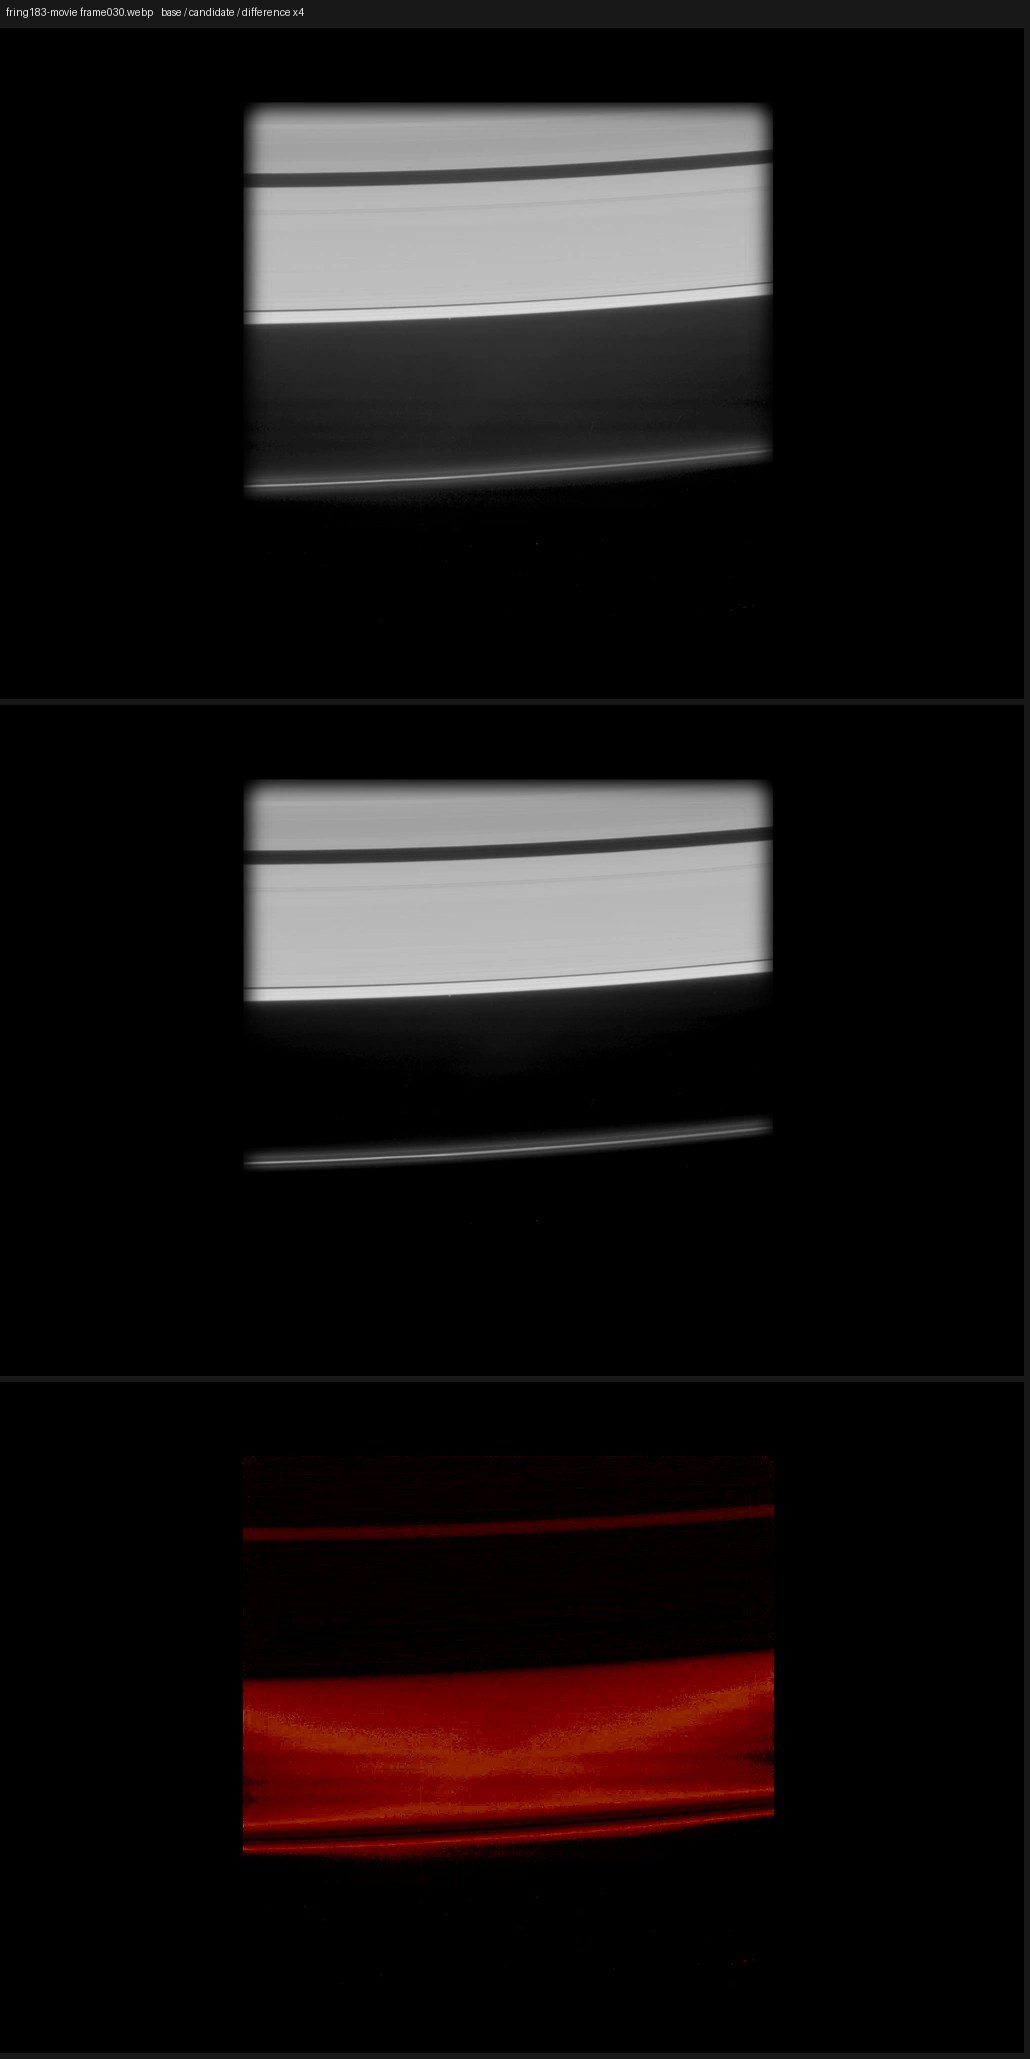
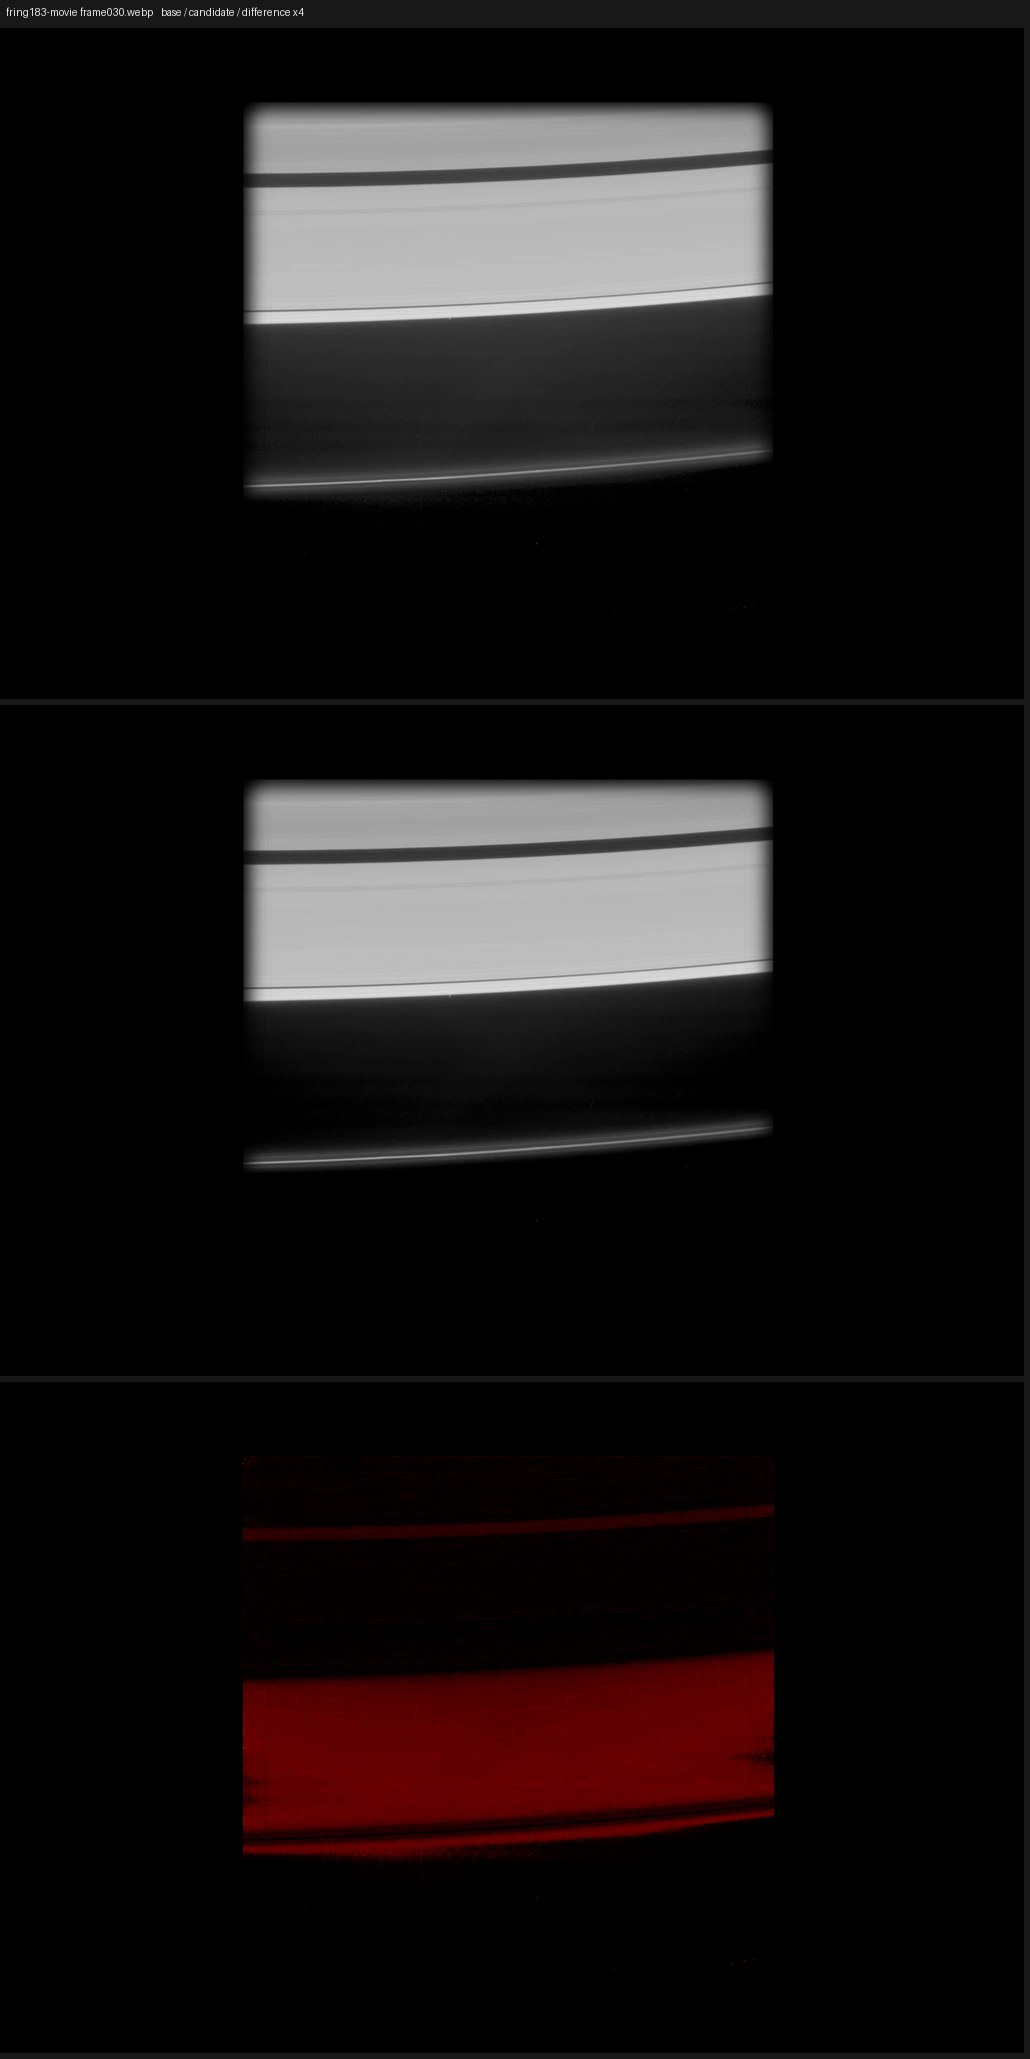
Evidence: bench main 7d4edf16 vs 4ba71cce (softer Full movies) with notes, all 38 changed sheets; Fable: ship

Changed region(s): [[0.2175, 0.8082, 0.7767, 0.9014]]

diff --git a/evidence/gentler_blacks/bench-report-7d4edf16-vs-4ba71cce.md b/evidence/gentler_blacks/bench-report-7d4edf16-vs-4ba71cce.md
@@ -1,10 +1,10 @@
-# Image benchmark: b51d908fb249 against 7d4edf1635b4
+# Image benchmark: 4ba71ccea742 against 7d4edf1635b4
 
 **NEEDS EYES**. 73 items: 35 identical, 38 changed (31 outside the target), 0 not built.
 
 - target items with a measure worse (look at them): ringmovie04-movie, kiviuq-still, titanwac17-haze, saturn07-fullblack-movie, saturn08w-fullblack-movie, saturn13-fullblack-movie, saturn08-fullblack-movie
 
-Built in 46 min (base) and 50 min (candidate). Targets: kiviuq-still, ringmovie04-movie, saturn07-fullblack-movie, saturn08-fullblack-movie, saturn08w-fullblack-movie, saturn13-fullblack-movie, titanwac17-haze.
+Built in 46 min (base) and 45 min (candidate). Targets: kiviuq-still, ringmovie04-movie, saturn07-fullblack-movie, saturn08-fullblack-movie, saturn08w-fullblack-movie, saturn13-fullblack-movie, titanwac17-haze.
 
 | item | group | status | pictures changed | moved >8 levels (worst) | largest change (levels) | worse by measure | note |
 |---|---|---|---|---|---|---|---|
@@ -16,13 +16,13 @@ Built in 46 min (base) and 50 min (candidate). Targets: kiviuq-still, ringmovie0
 | jupiter-atmos-mosaic | hard | identical | 0/1 | 0.00% |  |  |  |
 | enceladus-spol-mosaic | hard | identical | 0/2 | 0.00% |  |  |  |
 | satellorb-centre | hard | changed | 1/1 | 13.51% | 20 |  | Stills' black over the sky's grain: a smooth scattered-light halo shows round overexposed Saturn, cut where the frame ends (Fable: mixed). |
-| daphnis09-movie | hard | changed | 49/70 | 1.40% | 255 |  | Hairline differences along ring edges and the frame border only; picture looks identical (Fable: same). |
+| daphnis09-movie | hard | changed | 46/70 | 1.40% | 255 |  | Hairline differences along ring edges and the frame border only; picture looks identical (Fable: same). |
 | ringclose124-movie | hard | identical | 0/10 | 0.00% |  |  |  |
 | gring-still | hard | changed | 1/1 | 0.11% | 15 | still.webp: lit area's centre moved 14 px; still.webp: lit share 42.8% -> 37.4% | Marginally darker sky; G ring band and column banding unchanged (Fable: same). Measures move with the black level. |
-| plume279-movie | hard | changed | 167/288 | 52.40% | 133 | frame000.webp: 0.50% of the base's light now black; frame000.webp: lit area's centre moved 15 px; frame010.webp: lit share 17.5% -> 7.7%; frame172.webp: clipped 0.02% -> 0.25% | Full keeps Processed's black sky: gray grainy footprint and column streaks gone, plume kept but its faint outer reach shorter (Fable: better). |
+| plume279-movie | hard | changed | 167/288 | 47.38% | 132 | frame000.webp: 0.50% of the base's light now black; frame000.webp: lit area's centre moved 15 px; frame010.webp: lit share 17.5% -> 9.7% | Full keeps Processed's black sky: gray grainy footprint and column streaks gone, plume kept but its faint outer reach shorter (Fable: better). |
 | plume-bloom-still | hard | changed | 1/1 | 8.54% | 19 | still.webp: detail 0.226 -> 0.286 (+27%) | Grain-based black: wider smooth glow round Enceladus and the plume, sky black (Fable: better). Detail/lit-share measures move with the glow. |
 | approach-movie | hard | changed | 96/96 | 0.01% | 12 |  | No visible change (Fable: same). |
-| ringmovie04-movie | target | changed | 44/44 | 83.50% | 232 | frame000.webp: 55.87% of the base's light now black; frame000.webp: detail 0.1032 -> 0.1578 (+53%); frame000.webp: lit area's centre moved 58 px; frame000.webp: lit share 60.7% -> 23.8% | Target. pointing_jitter 12 -> 15 was already failing on main: the lit-area centroid shifts as faint ring glow shows; black levels move no pixels. |
+| ringmovie04-movie | target | changed | 44/44 | 83.42% | 255 | frame000.webp: 25.95% of the base's light now black; frame000.webp: detail 0.1032 -> 0.1496 (+45%); frame000.webp: lit area's centre moved 34 px; frame000.webp: lit share 60.7% -> 38.4% | Target. pointing_jitter 12 -> 15 was already failing on main: the lit-area centroid shifts as faint ring glow shows; black levels move no pixels. |
 | telesto-composite | hard | changed | 1/1 | 0.26% | 14 |  | Slightly wider soft halo round the moon (Fable: same). |
 | moon99-composite | plain | changed | 1/1 | 0.00% | 9 |  | Footprint lifted about 0.5 level, invisible unless brightened (Fable: mixed). |
 | venus99-still | plain | identical | 0/1 | 0.00% |  |  |  |
@@ -69,32 +69,32 @@ Built in 46 min (base) and 50 min (candidate). Targets: kiviuq-still, ringmovie0
 | titan08-mt1 | hard | identical | 0/1 | 0.00% |  |  |  |
 | rings08-bright | hard | identical | 0/1 | 0.00% |  |  |  |
 | mimas04-movie | hard | identical | 0/46 | 0.00% |  |  |  |
-| saturn07-fullblack-movie | target | changed | 144/144 | 49.76% | 255 | frame000.webp: 27.19% of the base's light now black; frame000.webp: detail 0.1059 -> 0.1375 (+30%); frame000.webp: lit area's centre moved 34 px; frame000.webp: lit share 65.5% -> 42.7%; frame028.webp: clipped 0.44% -> 0.71% |  |
-| saturn08w-fullblack-movie | target | changed | 14/16 | 40.19% | 138 | frame000.webp: 57.67% of the base's light now black; frame000.webp: detail 0.08 -> 0.0993 (+24%); frame000.webp: lit area's centre moved 142 px; frame000.webp: lit share 33.5% -> 12.6%; frame002.webp: clipped 3.72% -> 4.71% |  |
-| saturn13-fullblack-movie | target | changed | 61/61 | 34.52% | 211 | frame000.webp: 18.39% of the base's light now black; frame000.webp: lit area's centre moved 19 px; frame000.webp: lit share 72.3% -> 54.4% |  |
-| saturn08-fullblack-movie | target | changed | 84/84 | 69.59% | 245 | evened000.webp: 34.64% of the base's light now black; evened000.webp: detail 0.0827 -> 0.1025 (+24%); evened000.webp: lit area's centre moved 32 px; evened000.webp: lit share 57.1% -> 35.4% |  |
+| saturn07-fullblack-movie | target | changed | 144/144 | 48.80% | 255 | frame000.webp: 14.84% of the base's light now black; frame000.webp: detail 0.1059 -> 0.1313 (+24%); frame000.webp: lit area's centre moved 26 px; frame000.webp: lit share 65.5% -> 53.0% |  |
+| saturn08w-fullblack-movie | target | changed | 14/16 | 37.37% | 138 | frame000.webp: 42.09% of the base's light now black; frame000.webp: detail 0.08 -> 0.1006 (+26%); frame000.webp: lit area's centre moved 125 px; frame000.webp: lit share 33.5% -> 15.8%; frame002.webp: clipped 3.72% -> 4.10% |  |
+| saturn13-fullblack-movie | target | changed | 61/61 | 33.11% | 221 | frame000.webp: 4.90% of the base's light now black; frame000.webp: lit area's centre moved 14 px; frame000.webp: lit share 72.3% -> 63.1% |  |
+| saturn08-fullblack-movie | target | changed | 84/84 | 69.49% | 245 | evened000.webp: 21.21% of the base's light now black; evened000.webp: detail 0.0827 -> 0.0984 (+19%); evened000.webp: lit area's centre moved 28 px; evened000.webp: lit share 57.1% -> 39.9% |  |
 | pan09-banding-movie | hard | identical | 0/16 | 0.00% |  |  |  |
-| fring274-movie | hard | changed | 172/172 | 55.12% | 255 | frame000.webp: 23.24% of the base's light now black; frame000.webp: detail 0.0814 -> 0.0978 (+20%); frame000.webp: lit area's centre moved 40 px; frame000.webp: lit share 76.6% -> 53.1% | Full keeps Processed's black sky (full_black 54 -> 18): veil gone, glow under the A ring fades (Fable: better). |
+| fring274-movie | hard | changed | 172/172 | 53.62% | 252 | frame000.webp: 4.82% of the base's light now black; frame000.webp: lit area's centre moved 29 px; frame000.webp: lit share 76.6% -> 66.9%; frame001.webp: detail 0.0841 -> 0.0978 (+16%) | Full keeps Processed's black sky (full_black 54 -> 18): veil gone, glow under the A ring fades (Fable: better). |
 | npole0908-mosaicmovie | hard | identical | 0/1 | 0.00% |  |  |  |
 | encset293-movie | hard | changed | 48/48 | 0.42% | 255 | frame009.webp: clipped 28.08% -> 28.45%; frame021.webp: detail 0.0094 -> 0.0252 (+168%) | Faint smooth glow line above the limb only (Fable: same). |
 | daphnis257n1-movie | hard | identical | 0/34 | 0.00% |  |  |  |
-| fring039-movie | hard | changed | 144/144 | 49.76% | 255 | frame000.webp: 27.19% of the base's light now black; frame000.webp: detail 0.1059 -> 0.1375 (+30%); frame000.webp: lit area's centre moved 34 px; frame000.webp: lit share 65.5% -> 42.7%; frame028.webp: clipped 0.44% -> 0.71% | Full keeps Processed's black sky (full_black 49 -> 18): veil and ragged wedge gone, F ring glow fades smoothly (Fable: better). |
-| fring183-movie | hard | changed | 61/61 | 34.52% | 211 | frame000.webp: 18.39% of the base's light now black; frame000.webp: lit area's centre moved 19 px; frame000.webp: lit share 72.3% -> 54.4% | Full keeps Processed's black sky (full_black 31 -> 10): veil between A and F rings gone (Fable: better). |
-| titancloud264-movie | hard | changed | 104/104 | 1.10% | 125 | evened002.webp: clipped 3.65% -> 4.04%; evened027.webp: detail 0.046 -> 0.0529 (+15%) | Tiny contrast change at cloud edges (Fable: same). |
+| fring039-movie | hard | changed | 144/144 | 48.80% | 255 | frame000.webp: 14.84% of the base's light now black; frame000.webp: detail 0.1059 -> 0.1313 (+24%); frame000.webp: lit area's centre moved 26 px; frame000.webp: lit share 65.5% -> 53.0% | Full keeps Processed's black sky (full_black 49 -> 18): veil and ragged wedge gone, F ring glow fades smoothly (Fable: better). |
+| fring183-movie | hard | changed | 61/61 | 33.11% | 221 | frame000.webp: 4.90% of the base's light now black; frame000.webp: lit area's centre moved 14 px; frame000.webp: lit share 72.3% -> 63.1% | Full keeps Processed's black sky (full_black 31 -> 10): veil between A and F rings gone (Fable: better). |
+| titancloud264-movie | hard | changed | 104/104 | 0.91% | 125 | evened002.webp: clipped 3.65% -> 4.04%; evened018.webp: detail 0.0285 -> 0.0347 (+22%) | Tiny contrast change at cloud edges (Fable: same). |
 
 Sheets: `sheets/<item>.jpg` (base | candidate | difference x4, with 1:1 crops of the place that changed most).
 
 ## Checks
 
-2 regressions, 9 fixed, 10 known (failing on the base too), 0 errors. A known failure is a defect already on the base; it does not fail this run, and a fix should turn it into fixed.
+1 regressions, 3 fixed, 17 known (failing on the base too), 0 errors. A known failure is a defect already on the base; it does not fail this run, and a fix should turn it into fixed.
 
 | item | check | verdict | base | candidate | what |
 |---|---|---|---|---|---|
 | plume279-movie | full_black | known | 24.85 | 24.85 (limit 20.0) | black sky lost at Full: up to 25 points (40% of frame287.webp black at Processed, 15% at Full; 1 of 16 frames over 20) |
-| plume279-movie | odd_frame | known | 14.7884 | 13.5034 (limit 4.0) | worst 13.5 at frame088.webp (100 of 286 frames over 4.0) |
+| plume279-movie | odd_frame | known | 14.7884 | 14.0524 (limit 4.0) | worst 14.1 at frame074.webp (100 of 286 frames over 4.0) |
 | ringmovie04-movie | full_banding | fixed | 1.173 | 0.0 (limit 1.0) | Full sky banding up to 0.00 levels where Processed has black sky (0 of 16 frames over 1.0) |
-| ringmovie04-movie | full_black | fixed | 61.32 | 9.71 (limit 20.0) | black sky lost at Full: up to 10 points (81% of frame009.webp black at Processed, 71% at Full; 0 of 16 frames over 20) |
-| ringmovie04-movie | pointing_jitter | REGRESSION | 11.9955 | 15.0089 (limit 3.0) | frame-to-frame jump past the movie's own motion: p90 15.0 px, largest 18.9 px (37 pairs) |
+| ringmovie04-movie | full_black | known | 61.32 | 25.29 (limit 20.0) | black sky lost at Full: up to 25 points (82% of frame006.webp black at Processed, 57% at Full; 5 of 16 frames over 20) |
+| ringmovie04-movie | pointing_jitter | known | 11.9955 | 14.836 (limit 3.0) | frame-to-frame jump past the movie's own motion: p90 14.8 px, largest 23.6 px (33 pairs) |
 | saturn05-movie | channel_registration | known | 10.438 | 10.31 (limit 4.0) | colour along edges past the picture's own: p90 10.31 levels, largest 10.70 (27 colour frames) |
 | methone-movie | odd_frame | known | 4.1083 | 4.1083 (limit 4.0) | worst 4.1 at frame010.webp (1 of 1 frames over 4.0) |
 | daphnis17-movie | odd_frame | known | 118.2115 | 118.1355 (limit 4.0) | worst 118.1 at frame008.webp (2 of 9 frames over 4.0) |
@@ -102,12 +102,12 @@ Sheets: `sheets/<item>.jpg` (base | candidate | difference x4, with 1:1 crops of
 | impact293-movie | odd_frame | known | 18.0219 | 18.0219 (limit 4.0) | worst 18.0 at frame007.webp (1 of 2 frames over 4.0) |
 | mimas04-movie | channel_registration | known | 48.81 | 48.81 (limit 4.0) | colour along edges past the picture's own: p90 48.81 levels, largest 48.81 (23 colour frames) |
 | mimas04-movie | odd_frame | known | 4.3576 | 4.3576 (limit 4.0) | worst 4.4 at frame018.webp (1 of 9 frames over 4.0) |
-| saturn07-fullblack-movie | full_black | fixed | 49.49 | 18.47 (limit 20.0) | black sky lost at Full: up to 18 points (73% of frame143.webp black at Processed, 55% at Full; 0 of 16 frames over 20) |
-| saturn08w-fullblack-movie | full_black | fixed | 35.86 | 15.76 (limit 20.0) | black sky lost at Full: up to 16 points (53% of frame003.webp black at Processed, 38% at Full; 0 of 16 frames over 20) |
-| saturn13-fullblack-movie | full_black | fixed | 30.94 | 10.49 (limit 20.0) | black sky lost at Full: up to 10 points (55% of frame004.webp black at Processed, 45% at Full; 0 of 16 frames over 20) |
-| saturn08-fullblack-movie | full_black | fixed | 53.71 | 12.15 (limit 20.0) | black sky lost at Full: up to 12 points (73% of frame041.webp black at Processed, 61% at Full; 0 of 16 frames over 20) |
+| saturn07-fullblack-movie | full_black | known | 49.49 | 30.05 (limit 20.0) | black sky lost at Full: up to 30 points (78% of frame029.webp black at Processed, 48% at Full; 16 of 16 frames over 20) |
+| saturn08w-fullblack-movie | full_black | known | 35.86 | 22.01 (limit 20.0) | black sky lost at Full: up to 22 points (56% of frame002.webp black at Processed, 34% at Full; 2 of 16 frames over 20) |
+| saturn13-fullblack-movie | full_black | fixed | 30.94 | 19.96 (limit 20.0) | black sky lost at Full: up to 20 points (55% of frame004.webp black at Processed, 35% at Full; 0 of 16 frames over 20) |
+| saturn08-fullblack-movie | full_black | known | 53.71 | 21.9 (limit 20.0) | black sky lost at Full: up to 22 points (74% of frame025.webp black at Processed, 52% at Full; 3 of 16 frames over 20) |
 | pan09-banding-movie | full_banding | known | 7.239 | 7.239 (limit 1.0) | Full sky banding up to 7.24 levels where Processed has black sky (5 of 5 frames over 1.0) |
-| fring274-movie | full_black | fixed | 54.35 | 17.83 (limit 20.0) | black sky lost at Full: up to 18 points (64% of frame000.webp black at Processed, 46% at Full; 0 of 16 frames over 20) |
-| fring274-movie | pointing_jitter | known | 5.8919 | 7.3218 (limit 3.0) | frame-to-frame jump past the movie's own motion: p90 7.3 px, largest 137.5 px (149 pairs) |
-| fring039-movie | full_black | fixed | 49.49 | 18.47 (limit 20.0) | black sky lost at Full: up to 18 points (73% of frame143.webp black at Processed, 55% at Full; 0 of 16 frames over 20) |
-| fring183-movie | full_black | fixed | 30.94 | 10.49 (limit 20.0) | black sky lost at Full: up to 10 points (55% of frame004.webp black at Processed, 45% at Full; 0 of 16 frames over 20) |
+| fring274-movie | full_black | known | 54.35 | 32.91 (limit 20.0) | black sky lost at Full: up to 33 points (64% of frame023.webp black at Processed, 31% at Full; 10 of 16 frames over 20) |
+| fring274-movie | pointing_jitter | known | 5.8919 | 5.8112 (limit 3.0) | frame-to-frame jump past the movie's own motion: p90 5.8 px, largest 136.4 px (151 pairs) |
+| fring039-movie | full_black | known | 49.49 | 30.05 (limit 20.0) | black sky lost at Full: up to 30 points (78% of frame029.webp black at Processed, 48% at Full; 16 of 16 frames over 20) |
+| fring183-movie | full_black | fixed | 30.94 | 19.96 (limit 20.0) | black sky lost at Full: up to 20 points (55% of frame004.webp black at Processed, 35% at Full; 0 of 16 frames over 20) |
